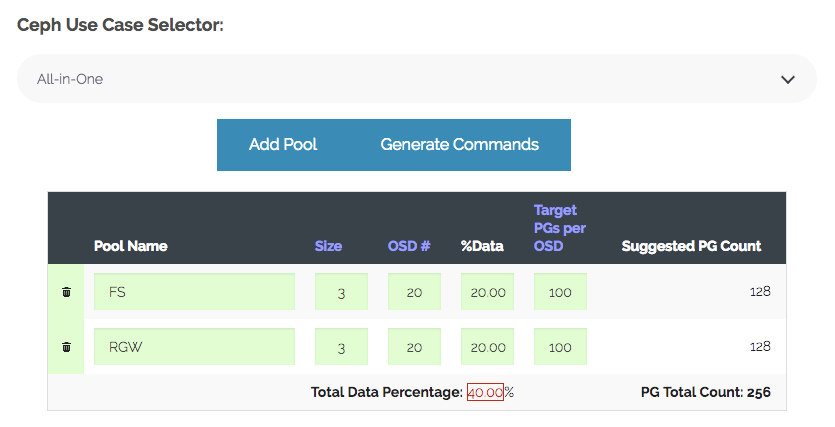
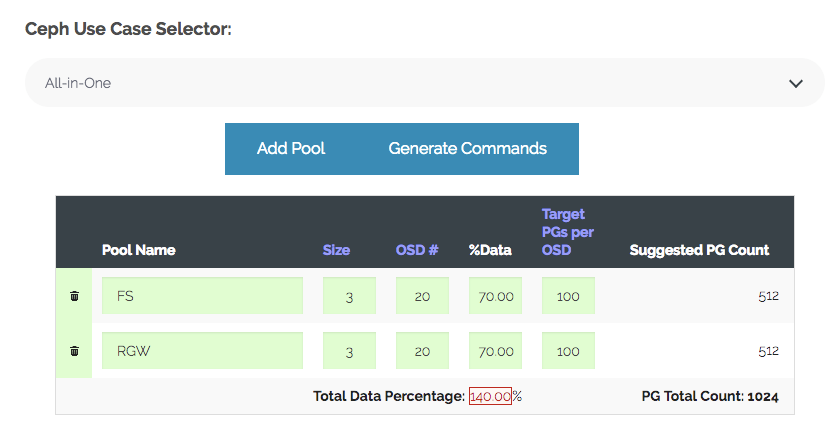
GitBook: [master] 4 pages and 7 assets modified

diff --git a/undefined.md b/undefined.md
@@ -2,7 +2,9 @@
 
 在 Ceph-client host\(vm\) 端，準備好 20GB size file，同時 mount cephfs、ceph rbd 兩個服務
 
-### CephFS CP file test
+## 單一大檔案 測試
+
+### CP file to CephFS
 
 ```bash
 [afu@client-211 ~]$ time sudo cp /tmp/26G.tar /mnt/cephfs/
@@ -14,9 +16,9 @@ sys     0m32.702s
 # 網路 iftop peak: 900Mb
 ```
 
-![](.gitbook/assets/image%20%284%29.png)
+![](.gitbook/assets/image%20%286%29.png)
 
-### Ceph RBD CP file test
+### CP file to Ceph RBD
 
 ```bash
 [afu@client-211 ~]$ time sudo cp /tmp/26G.tar /mnt/ceph-rbd/
@@ -28,5 +30,13 @@ sys     0m43.456s
 # 網路 iftop peak: 901Mb
 ```
 
-![](.gitbook/assets/image%20%285%29.png)
+![](.gitbook/assets/image%20%284%29.png)
+
+## 單一目錄零碎資料 10G
+
+### CP file to CephFS
+
+![](.gitbook/assets/image%20%283%29.png)
+
+### CP file to Ceph RBD
 

diff --git a/pool-pg-config.md b/pool-pg-config.md
@@ -18,9 +18,9 @@ PG 數量，是基於 OSD、pool replica 等因素計算出來
 
 從計算工具中，發現 pool 空間使用率概念，當使用率升高時，PG 數量也隨之要調整。
 
-![20% &#x8CC7;&#x6599;&#x91CF;&#x4F7F;&#x7528;&#x7387;](.gitbook/assets/image%20%281%29.png)
+![20% &#x8CC7;&#x6599;&#x91CF;&#x4F7F;&#x7528;&#x7387;](.gitbook/assets/image.png)
 
-![70% &#x8CC7;&#x6599;&#x91CF;&#x4F7F;&#x7528;&#x7387;](.gitbook/assets/image%20%282%29.png)
+![70% &#x8CC7;&#x6599;&#x91CF;&#x4F7F;&#x7528;&#x7387;](.gitbook/assets/image%20%281%29.png)
 
 那...意即～ 管理員須適時調整PG數量，維持 Ceph recovery 效率。
 

diff --git a/mds-architecture.md b/mds-architecture.md
@@ -7,7 +7,7 @@
 
 ![](.gitbook/assets/ceph-metadata-server-mds.png)
 
-![](.gitbook/assets/image%20%283%29.png)
+![](.gitbook/assets/image%20%282%29.png)
 
 {% hint style="info" %}
 文章參考：  

diff --git a/ceph-mon-mgr-cluster.md b/ceph-mon-mgr-cluster.md
@@ -21,7 +21,7 @@ ssh node1 sudo ceph -s
 
 搭建後架構如下
 
-![](.gitbook/assets/image.png)
+![](.gitbook/assets/image%20%285%29.png)
 
 {% hint style="info" %}
 參考連結：  
